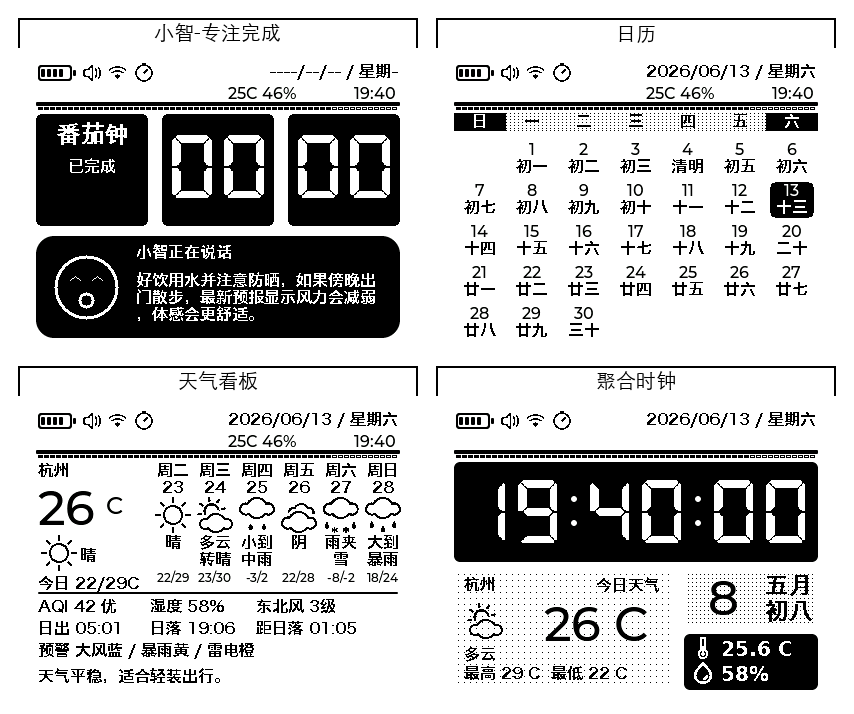
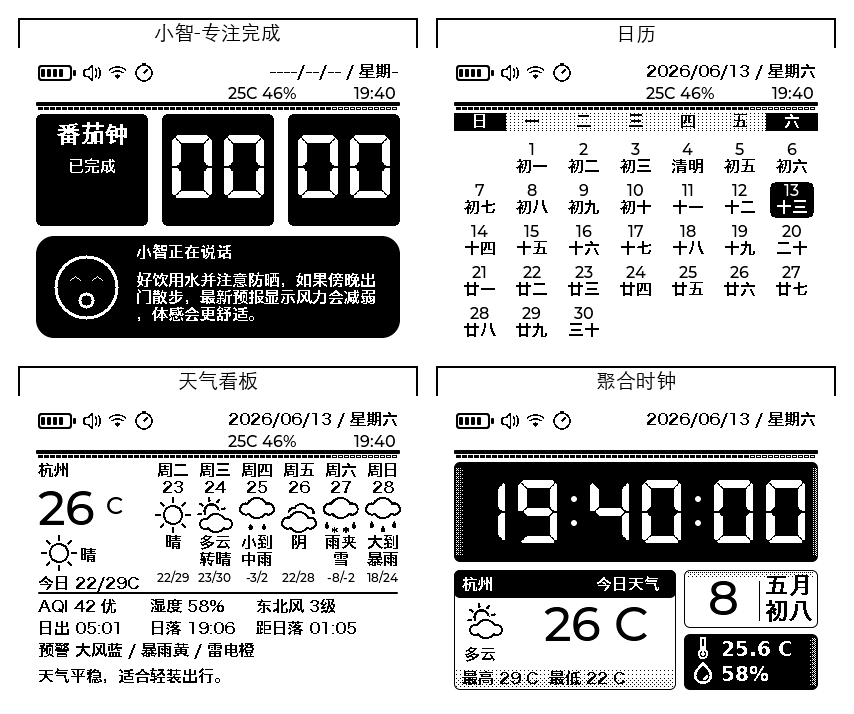
Publish clock source v1.6.1

Changed region(s): [[0.5176, 0.8011, 0.822, 0.8627], [0.5176, 0.9244, 0.7307, 0.986], [0.8525, 0.8011, 0.9133, 0.8319]]

diff --git a/RLCD_CLOCK/main/ui/ui_aggregate_clock_view.cpp b/RLCD_CLOCK/main/ui/ui_aggregate_clock_view.cpp
@@ -42,21 +42,34 @@ void embolden(lv_obj_t *obj) {
         lv_draw_label(lv_event_get_draw_ctx(e),&style,&area,lv_label_get_text(label),nullptr);
     },LV_EVENT_DRAW_MAIN,nullptr);
 }
-void stipple(lv_obj_t *root,int x,int y,int w,int h,int stride) {
+enum class Fade { Right, Left, Down, Up };
+void stipple(lv_obj_t *root,int x,int y,int w,int h,Fade fade,bool white=false) {
     lv_obj_t *p=panel(root,x,y,w,h,false);
+    lv_obj_set_style_bg_opa(p,LV_OPA_TRANSP,0);
+    lv_obj_set_style_text_color(p,white?lv_color_white():lv_color_black(),0);
     lv_obj_add_event_cb(p,[](lv_event_t *e) {
         lv_obj_t *obj=lv_event_get_target(e);
         lv_draw_ctx_t *ctx=lv_event_get_draw_ctx(e);
         lv_area_t area; lv_obj_get_coords(obj,&area);
-        const int step=static_cast<int>(reinterpret_cast<uintptr_t>(lv_event_get_user_data(e)));
+        const auto fade=static_cast<Fade>(reinterpret_cast<uintptr_t>(lv_event_get_user_data(e)));
+        // Ordered one-bit coverage fades spatially, never by alternating frames.
+        static constexpr uint8_t bayer[4][4]={{0,8,2,10},{12,4,14,6},{3,11,1,9},{15,7,13,5}};
         lv_draw_rect_dsc_t style; lv_draw_rect_dsc_init(&style);
-        style.bg_color=lv_color_black();
-        for(int y=area.y1+4;y<area.y2-2;y+=step)
-            for(int x=area.x1+4;x<area.x2-2;x+=step) {
+        style.bg_color=lv_obj_get_style_text_color(obj,0);
+        const int width=lv_area_get_width(&area),height=lv_area_get_height(&area);
+        const bool horizontal=fade==Fade::Right || fade==Fade::Left;
+        const int extent=horizontal?width:height;
+        const int max_coverage=style.bg_color.full==lv_color_white().full?8:3;
+        for(int y=area.y1;y<=area.y2;++y)
+            for(int x=area.x1;x<=area.x2;++x) {
+                int distance=horizontal?x-area.x1:y-area.y1;
+                if(fade==Fade::Left || fade==Fade::Up) distance=extent-1-distance;
+                const int coverage=extent>1?max_coverage*(extent-1-distance)/(extent-1):0;
+                if(bayer[(y-area.y1)%4][(x-area.x1)%4]>=coverage) continue;
                 lv_area_t dot={static_cast<lv_coord_t>(x),static_cast<lv_coord_t>(y),static_cast<lv_coord_t>(x),static_cast<lv_coord_t>(y)};
                 lv_draw_rect(ctx,&style,&dot);
             }
-    },LV_EVENT_DRAW_MAIN,reinterpret_cast<void *>(static_cast<uintptr_t>(stride)));
+    },LV_EVENT_DRAW_MAIN,reinterpret_cast<void *>(static_cast<uintptr_t>(fade)));
 }
 void sensor_icon(lv_obj_t *root,int x,int y,const uint8_t *bits) {
     lv_obj_t *p=panel(root,x,y,24,24,true);
@@ -111,15 +124,27 @@ void aggregate_clock_view_build(lv_obj_t *root,AggregateClockView &v,lv_color_t 
         lv_obj_t *dot=panel(root,x,y,6,6,false);
         lv_obj_set_style_radius(dot,LV_RADIUS_CIRCLE,0);
     }
-    stipple(root,18,174,222,120,6);
-    stipple(root,248,174,134,58,4);
+    // Static texture stays outside the changing glyphs and never needs a timer.
+    stipple(root,20,72,10,88,Fade::Right,true);
+    stipple(root,375,72,6,88,Fade::Left,true);
+    lv_obj_t *weather_panel=panel(root,18,174,222,120,false);
+    lv_obj_set_style_border_width(weather_panel,1,0);
+    lv_obj_set_style_border_color(weather_panel,lv_color_black(),0);
+    panel(root,18,174,222,28,true);
+    stipple(root,20,262,218,30,Fade::Up);
+    lv_obj_t *date_panel=panel(root,248,174,134,58,false);
+    lv_obj_set_style_border_width(date_panel,1,0);
+    lv_obj_set_style_border_color(date_panel,lv_color_black(),0);
+    stipple(root,252,176,126,8,Fade::Down);
+    panel(root,323,185,1,40,true);
     panel(root,248,238,134,56,true);
-    v.city=label(root,28,180,120,20,"等待数据");
-    label(root,160,181,72,18,"今日天气");
+    stipple(root,372,242,8,48,Fade::Left,true);
+    v.city=label(root,26,180,126,20,"等待数据",&zh_font_16,true);
+    label(root,160,180,72,20,"今日天气",&zh_font_16,true);
     v.icon=label(root,31,207,48,42,"",&qweather_icons_36);
     v.weather=label(root,28,250,88,20,"--");
     v.temperature=label(root,108,202,128,54,"-- C",&lv_font_montserrat_48);
-    v.range=label(root,28,269,207,17,"最高 -- C  最低 -- C",&zh_font_16);
+    v.range=label(root,26,274,208,17,"最高 -- C  最低 -- C",&zh_font_16);
     v.day=label(root,251,176,74,56,"--",&lv_font_montserrat_48);
     lv_obj_set_style_text_align(v.day,LV_TEXT_ALIGN_CENTER,0);
     v.month=label(root,325,178,54,26,"--月",&zh_flip_lunar_22);

diff --git a/RLCD_CLOCK/main/ui/ui_gallery_decoration.h b/RLCD_CLOCK/main/ui/ui_gallery_decoration.h
@@ -1,0 +1,29 @@
+// 图片时钟固件与SDL共用随每日文字宽度变化的双线。
+#pragma once
+#include "lvgl.h"
+#include "ui_gallery_layout.h"
+
+inline void gallery_attach_saying_rules(lv_obj_t *label) {
+    lv_obj_add_event_cb(label,[](lv_event_t *e) {
+        lv_obj_t *obj=lv_event_get_target(e);
+        const char *text=lv_label_get_text(obj);
+        if(!text || !text[0]) return;
+        lv_draw_label_dsc_t text_style; lv_draw_label_dsc_init(&text_style);
+        lv_obj_init_draw_label_dsc(obj,LV_PART_MAIN,&text_style);
+        lv_point_t size;
+        lv_txt_get_size(&size,text,text_style.font,text_style.letter_space,
+                        text_style.line_space,LV_COORD_MAX,LV_TEXT_FLAG_NONE);
+        lv_area_t area; lv_obj_get_coords(obj,&area);
+        const int length=ui_gallery_layout::gallery_saying_rule_length(lv_area_get_width(&area),size.x);
+        if(length<4 || size.y>text_style.font->line_height) return;
+        lv_draw_rect_dsc_t style; lv_draw_rect_dsc_init(&style);
+        style.bg_color=text_style.color;
+        for(int line=0;line<2;++line) {
+            const int y=area.y1+text_style.font->line_height/2-2+line*4;
+            lv_area_t left={area.x1,(lv_coord_t)y,(lv_coord_t)(area.x1+length-1),(lv_coord_t)y};
+            lv_area_t right={(lv_coord_t)(area.x2-length+1),(lv_coord_t)y,area.x2,(lv_coord_t)y};
+            lv_draw_rect(lv_event_get_draw_ctx(e),&style,&left);
+            lv_draw_rect(lv_event_get_draw_ctx(e),&style,&right);
+        }
+    },LV_EVENT_DRAW_MAIN,nullptr);
+}

diff --git a/RLCD_CLOCK/main/ui/ui_gallery_layout.h b/RLCD_CLOCK/main/ui/ui_gallery_layout.h
@@ -63,6 +63,16 @@ constexpr int gallery_block_digit_x(int digit_index)
            digit_index * (kGalleryBlockDigitW + kGalleryBlockDigitGap);
 }
 
+constexpr int gallery_saying_rule_length(int width,int text_width) {
+    if(width<=0 || text_width<=0 || text_width>=width) return 0;
+    const int length=(width-text_width)/2-10;
+    return length>=4?length:0;
+}
+static_assert(gallery_saying_rule_length(364,176)==84,"short text keeps balanced rules");
+static_assert(gallery_saying_rule_length(364,340)==0,"long text hides decoration");
+static_assert(gallery_saying_rule_length(364,400)==0,"overflow must not draw rules");
+static_assert(gallery_saying_rule_length(364,0)==0,"empty text hides decoration");
+
 constexpr uint8_t gallery_changed_digit_mask(int previous, int current)
 {
     if (current < 0 ||

diff --git a/RLCD_CLOCK/main/ui/ui_gallery.cpp b/RLCD_CLOCK/main/ui/ui_gallery.cpp
@@ -14,6 +14,7 @@
 #include "ui_bitmap.h"
 #include "ui_canvas_primitives.h"
 #include "ui_gallery_layout.h"
+#include "ui_gallery_decoration.h"
 #include "ui_gallery_rotation_state.h"
 #include "ui_gallery_selection.h"
 #include "ui_fonts.h"
@@ -266,6 +267,7 @@ static void style_gallery_saying_label(lv_obj_t *label)
     lv_obj_set_style_text_font(label, &zh_font_16, LV_PART_MAIN);
     lv_obj_set_style_text_align(label, LV_TEXT_ALIGN_CENTER, LV_PART_MAIN);
     lv_label_set_long_mode(label, LV_LABEL_LONG_DOT);
+    gallery_attach_saying_rules(label);
 }
 
 static void build_gallery_canvas(lv_obj_t *screen,

diff --git a/RLCD_CLOCK/simulator/sdl_preview_gallery.cpp b/RLCD_CLOCK/simulator/sdl_preview_gallery.cpp
@@ -4,6 +4,7 @@
 #include "clock_gallery_images.h"
 #include "sdl_preview_widgets.h"
 #include "ui_gallery_layout.h"
+#include "ui_gallery_decoration.h"
 
 #include <vector>
 
@@ -118,4 +119,5 @@ void build_gallery_preview_body(lv_obj_t *screen, const struct tm *local)
     lv_obj_set_style_text_font(saying, &zh_font_16, LV_PART_MAIN);
     lv_obj_set_style_text_align(saying, LV_TEXT_ALIGN_CENTER, LV_PART_MAIN);
     lv_label_set_long_mode(saying, LV_LABEL_LONG_DOT);
+    gallery_attach_saying_rules(saying);
 }

diff --git a/RLCD_CLOCK/simulator/main.cpp b/RLCD_CLOCK/simulator/main.cpp
@@ -30,7 +30,7 @@ using sdl_preview_widgets::make_label_with_font;
 static constexpr int kDisplayWidth = 400;
 static constexpr int kDisplayHeight = 300;
 static constexpr int kWindowScale = 2;
-static const char *APP_VERSION = "v1.6.0";
+static const char *APP_VERSION = "v1.6.1";
 
 static SdlPreviewBackend g_sdl_preview(kDisplayWidth, kDisplayHeight);
 static sdl_preview_progress::Canvas g_work_page_day_progress;

diff --git a/RLCD_CLOCK/main/core/app_metadata.cpp b/RLCD_CLOCK/main/core/app_metadata.cpp
@@ -2,7 +2,7 @@
 #include "app_metadata.h"
 
 const char *const TAG = "WeatherClock";
-const char *const APP_VERSION = "v1.6.0";
+const char *const APP_VERSION = "v1.6.1";
 #ifndef WEATHER_CLOCK_BUILD_DATE
 #define WEATHER_CLOCK_BUILD_DATE "unknown"
 #endif

diff --git a/docs/User.md b/docs/User.md
@@ -93,6 +93,8 @@ Shows large time, date, battery, current weather, alerts, local temperature/humi
 
 ### 3.2 Picture Clock
 
+Time retains the original square dot-matrix digits. Double rules beside the daily saying adjust to its width and disappear for long or empty text. Image rotation and minute-level clock updates are unchanged.
+
 Shows a local image, large time, daily text, and local temperature/humidity summary.
 
 - Built-in images are selected by weekday and change once per day.
@@ -179,6 +181,8 @@ Provides local wake-word detection, voice conversations, on-screen transcripts, 
 - This page consumes substantially more power and warms the PCB, which may make the onboard temperature/humidity reading higher than the surrounding air.
 
 ### 3.8 Aggregate Clock
+
+Weather uses a reverse-video header and a white reading area. A thin border frames the date; static edge and footer dot patterns simulate gray without extra refresh timers.
 
 Combines second-level time, current weather and daily high/low, Gregorian day number, lunar month/day, and local temperature/humidity. It is appended to the default page order and supports toggling and reordering in Display settings.
 

diff --git a/firmware/OTA_RELEASE_NOTES.md b/firmware/OTA_RELEASE_NOTES.md
@@ -1,8 +1,4 @@
-v1.6.0：共 8 项更新。
-1. 新增“聚合时钟”页面，将秒级时间、当天天气、日期农历和本地温湿度集中显示，支持页面开关…
-2. 聚合时钟采用灰度点阵信息区、天气图标与温湿度图标，数字和农历加粗，单日日期不补零。
-3. 修复连续浏览多个页面后进入设置可能崩溃的问题，完善界面内存分配与低内存保护。
-4. 修复聚合时钟日期被裁切、冒号偏移及图标边缘异常，统一信息区留白和边界。
-5. 修正农历月份与日期的对应关系，并支持闰月显示。
-6. 补充时间画布申请失败后的恢复机制，避免时间区持续空白。
-其余 2 项见源码仓库同版本 Release。
+v1.6.1：共 2 项更新。
+1. 优化聚合时钟信息区：天气标题改为反显、正文使用白底，日期采用细框，并以静态有方向点阵过…
+2. 优化图片时钟每日文字装饰线：根据文字实际宽度自适应显示两侧双线；原有数字、字号、位置和…
+完整说明见源码仓库同版本 Release。
